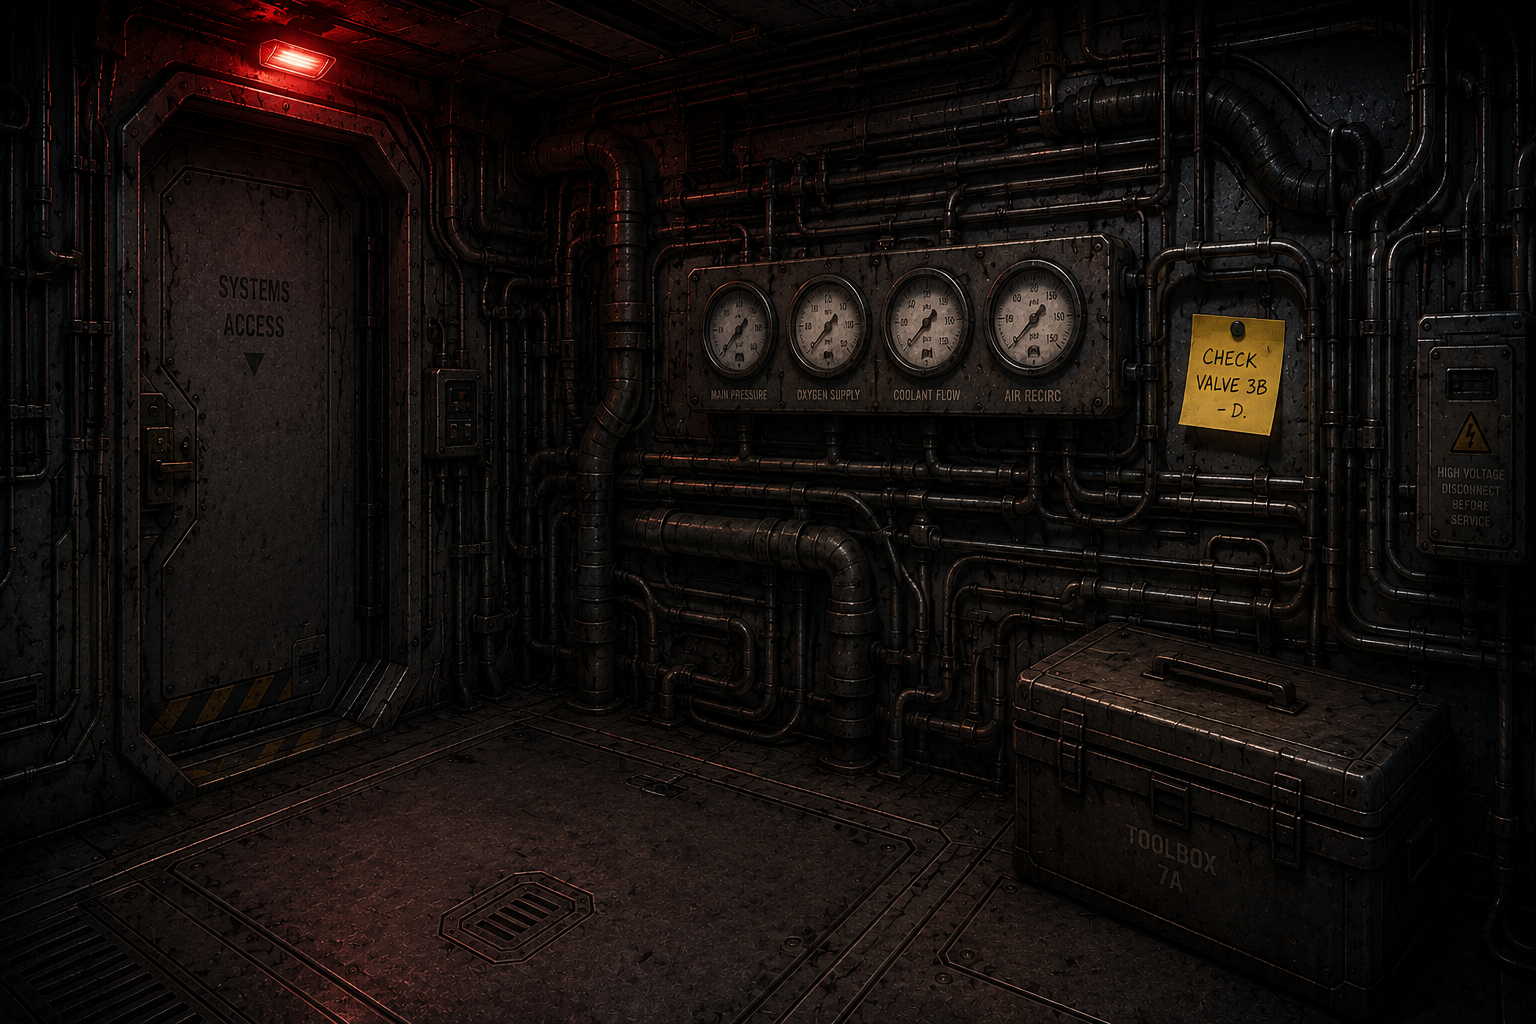
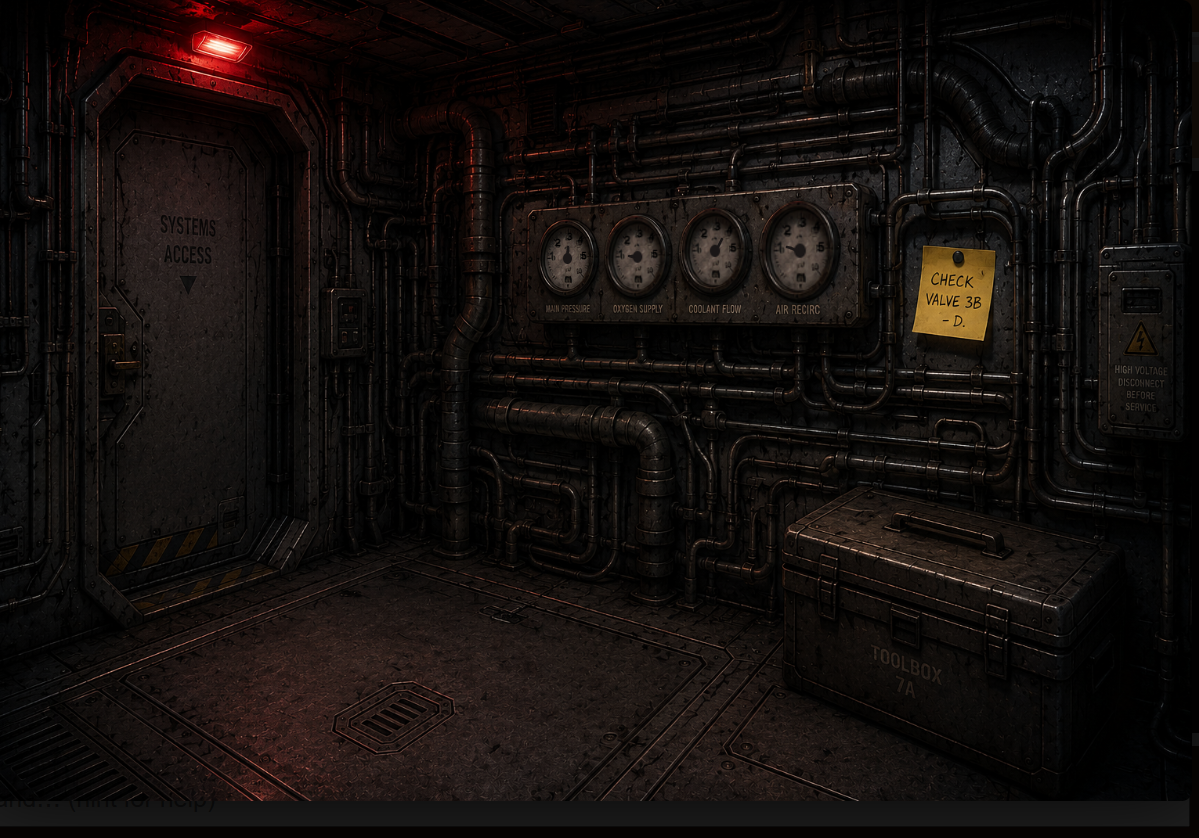
improved image with gauges

diff --git a/templates/home.html b/templates/home.html
@@ -37,7 +37,7 @@
             <p id="scr">Score</p>
             <p id="score">{{score}}</p>
         </div>
-        <div class="grid-item level">{{room_data.name}}</div>
+        <div class="grid-item level">Level {{user_level}} &mdash; {{room_data.name}}</div>
         <div class="grid-item topright">
             <p>&#9660; inventory &#9660;</p>
         </div>

diff --git a/database.py b/database.py
@@ -192,7 +192,7 @@ def init_rooms():
         ),
         furniture="gauges,toolbox,note,door,keypad",
         objects={
-            "gauges":  "<readings left to right: 3, 1, 4, 1>",
+            "gauges":  "<four pressure gauges mounted in a row — check the image for their readings>",
             "toolbox": "wrench",
             "note":    "<override code = gauge readings left to right>",
             "door":    "<sealed door>",